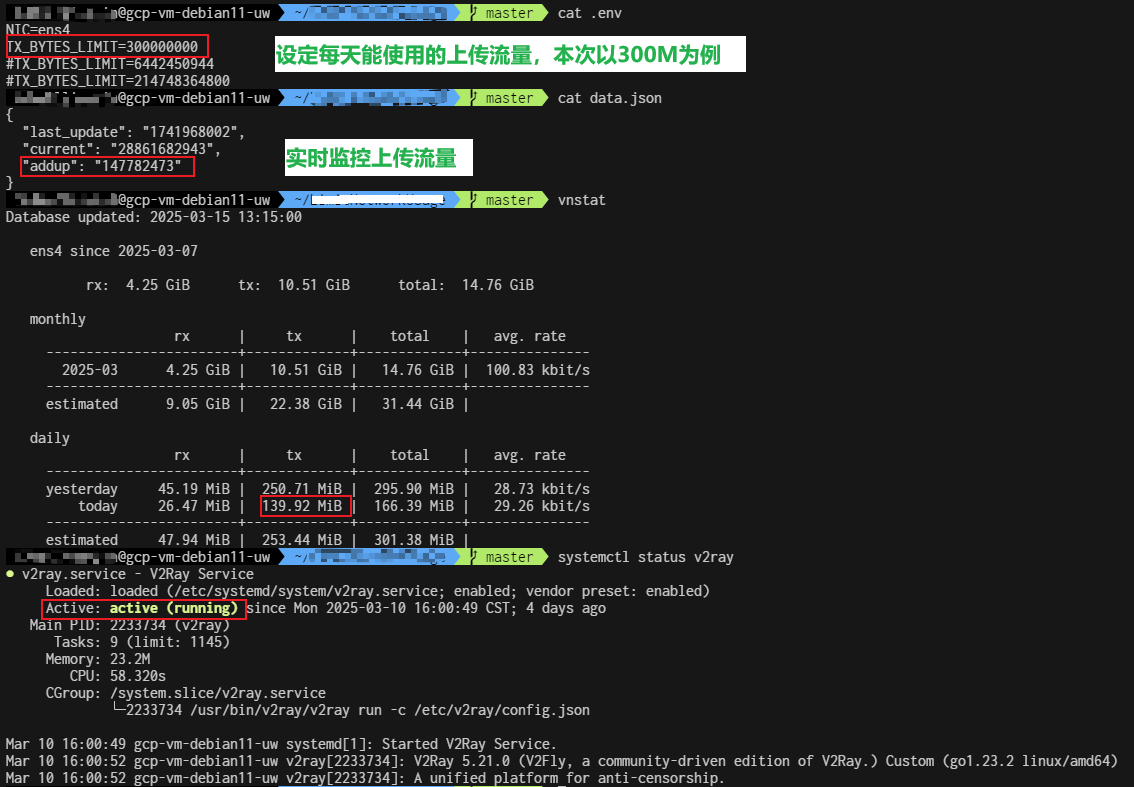
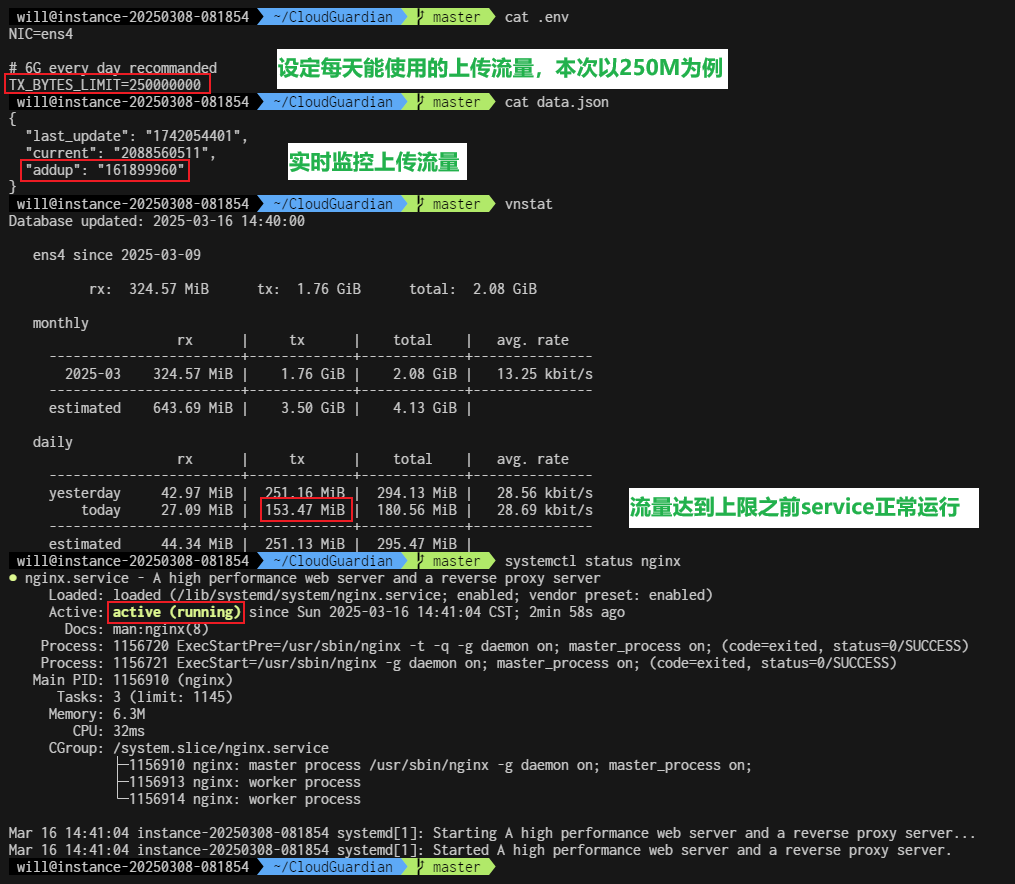
Change2nginx (#13)

Changed region(s): [[0.0, 0.0, 0.9773, 1.0], [0.397, 0.305, 0.5192, 0.3659], [0.3054, 0.305, 0.3665, 0.3355]]

diff --git a/README.md b/README.md
@@ -33,7 +33,7 @@
 
 #### 效果展示：
 
-以每天0.3G流量上限为例（这个数值可修改，**GCP实际每天可使用6G上传流量，只要每月不超过200G即可**）展示一下效果：
+以每天0.25G流量上限为例（这个数值可修改，**GCP实际每天可使用6G上传流量，只要每月不超过200G即可**）展示一下效果：
 
 ##### 达到额度之前：
 
